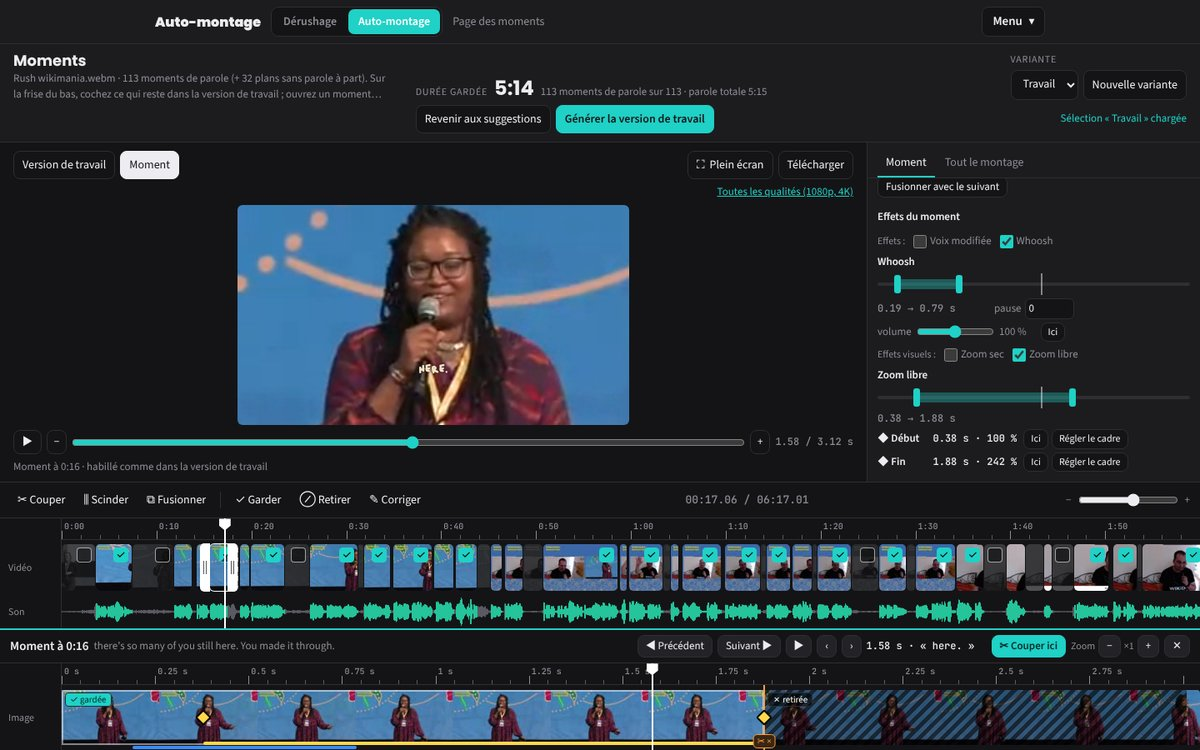
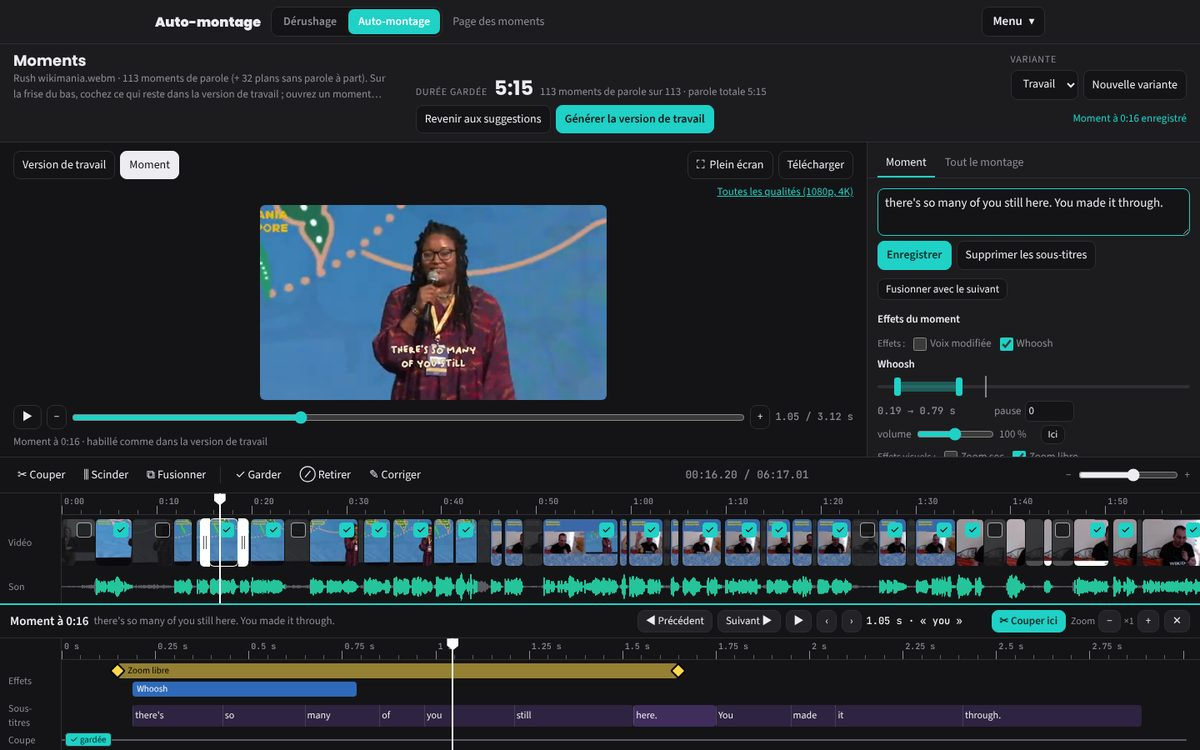
Version 0.66 : frise du moment avec ses effets, ses sous-titres et une ligne de coupe
Claude-Session: https://claude.ai/code/session_0169CDjeMXABF3BxtAnJYUo9

Changed region(s): [[0.0, 0.2453, 1.0, 1.0], [0.8942, 0.1533, 0.9867, 0.184], [0.4317, 0.092, 0.4625, 0.1227]]

diff --git a/montage/selection/page.html b/montage/selection/page.html
@@ -325,23 +325,27 @@
   .tlk-head .primary, .primary { background: var(--accent) !important; color: #002b28 !important; border-color: var(--accent) !important; font-weight: 600; }
   .tlk-head .at-info { font-family: var(--mono); font-size: 12px; color: var(--fg); font-variant-numeric: tabular-nums; min-width: 12em; }
   .tlk-head .zoom { display: inline-flex; align-items: center; gap: 4px; font-size: 12px; color: var(--muted); }
-  .tlk-labels .i { height: 78px; }
-  .itrack { position: relative; height: 78px; }
-  .itrack .film { position: absolute; top: 6px; bottom: 6px; left: 0; right: 0; display: flex; overflow: hidden; border-radius: 4px; }
-  .itrack .film span { flex: none; height: 100%; background-repeat: no-repeat; }
-  .itrack .part { position: absolute; top: 6px; bottom: 6px; border: 0; border-radius: 0; padding: 0; background: none; cursor: pointer; }
-  .itrack .part.off { background: repeating-linear-gradient(135deg, rgb(0 0 0 / 0.7) 0 5px, rgb(0 0 0 / 0.35) 5px 10px); }
-  .itrack .part .pl { position: absolute; left: 4px; top: 3px; font-size: 11px; line-height: 1; padding: 2px 5px; border-radius: 4px; background: rgb(0 0 0 / 0.6); color: #fff; white-space: nowrap; }
-  .itrack .part.on .pl { background: var(--accent); color: #002b28; }
-  .itrack .part:hover { box-shadow: inset 0 0 0 2px rgb(255 255 255 / 0.5); }
-  .itrack .cut { position: absolute; top: 0; bottom: 0; width: 2px; margin-left: -1px; background: var(--warn); z-index: 3; }
-  .itrack .cut button { position: absolute; bottom: 2px; left: 50%; transform: translateX(-50%); font-size: 11px; line-height: 1; padding: 2px 4px; border-radius: 5px; background: var(--warn-soft); color: var(--warn); border-color: var(--warn); white-space: nowrap; }
-  .itrack .trim { position: absolute; top: 6px; bottom: 6px; background: rgb(0 0 0 / 0.65); pointer-events: none; }
-  /* Effets du moment : fins repères colorés sous les images (clic : leurs réglages). */
-  .itrack .fxm { position: absolute; height: 4px; bottom: 1px; border-radius: 2px; border: 0; padding: 0; cursor: pointer; z-index: 2; min-width: 4px; }
-  .itrack .fxm.s { background: var(--sfx); } .itrack .fxm.v { background: var(--vfx); } .itrack .fxm.k { background: var(--key); }
-  .itrack .kf { position: absolute; top: 50%; width: 14px; height: 14px; margin: -7px 0 0 -7px; transform: rotate(45deg); background: var(--key); border: 2px solid #000; border-radius: 2px; padding: 0; z-index: 4; cursor: pointer; }
-  .itrack .kf:hover, .itrack .kf:focus-visible { outline: 2px solid #fff; }
+  /* Frise du moment : effets, sous-titres, ligne de coupe ; parties retirées hachurées sur toute la hauteur. */
+  .ktrack { position: relative; }
+  .ktrack .cutline { position: absolute; left: 0; height: 24px; pointer-events: none; }
+  .ktrack .cutline::before { content: ""; position: absolute; left: 0; right: 0; top: 11px; height: 2px; border-radius: 1px; background: var(--off); }
+  .ktrack .part { position: absolute; top: 0; bottom: 0; border: 0; border-radius: 0; padding: 0; background: none; cursor: pointer; z-index: 3; pointer-events: none; }
+  .ktrack .part.off { background: repeating-linear-gradient(135deg, rgb(0 0 0 / 0.6) 0 5px, rgb(0 0 0 / 0.3) 5px 10px); }
+  .ktrack .part .pl { pointer-events: auto; position: absolute; left: 4px; bottom: 4px; font-size: 11px; line-height: 1; padding: 2px 5px; border-radius: 4px; background: var(--panel2); color: var(--fg); white-space: nowrap; }
+  .ktrack .part.on .pl { background: var(--accent); color: #002b28; }
+  .ktrack .cut { position: absolute; top: 0; bottom: 0; width: 2px; margin-left: -1px; background: var(--warn); z-index: 5; }
+  .ktrack .cut button { position: absolute; bottom: 3px; left: 50%; transform: translateX(-50%); font-size: 11px; line-height: 1; padding: 2px 4px; border-radius: 5px; background: var(--warn-soft); color: var(--warn); border-color: var(--warn); white-space: nowrap; }
+  .ktrack .trim { position: absolute; top: 0; bottom: 0; background: rgb(0 0 0 / 0.6); pointer-events: none; z-index: 3; }
+  .ktrack .fxm { position: absolute; height: 18px; border-radius: 4px; border: 0; padding: 0 5px; cursor: pointer; z-index: 2; min-width: 6px; font-size: 11px; line-height: 18px; color: #fff; text-align: left; white-space: nowrap; overflow: visible; }
+  .ktrack .fxm.s { background: color-mix(in srgb, var(--sfx) 70%, transparent); } .ktrack .fxm.v { background: color-mix(in srgb, var(--vfx) 70%, transparent); }
+  .ktrack .fxm.k { background: color-mix(in srgb, var(--key) 55%, transparent); color: #000; padding-left: 12px; }
+  .ktrack .fxm:hover, .ktrack .fxm:focus-visible { outline: 2px solid #fff; }
+  .ktrack .cap { position: absolute; height: 26px; border-radius: 4px; background: rgb(164 107 255 / 0.18); pointer-events: none; }
+  .ktrack .cap.alt { background: rgb(164 107 255 / 0.3); }
+  .ktrack .wd { position: absolute; height: 26px; line-height: 26px; padding: 0 2px; font-size: 12px; color: var(--fg); overflow: hidden; white-space: nowrap; text-overflow: clip; cursor: pointer; z-index: 1; box-sizing: border-box; border-left: 1px solid rgb(255 255 255 / 0.12); }
+  .ktrack .wd:hover { background: rgb(255 255 255 / 0.12); }
+  .ktrack .kf { position: absolute; width: 14px; height: 14px; margin: -7px 0 0 -7px; transform: rotate(45deg); background: var(--key); border: 2px solid #000; border-radius: 2px; padding: 0; z-index: 4; cursor: pointer; }
+  .ktrack .kf:hover, .ktrack .kf:focus-visible { outline: 2px solid #fff; }
   .fxset.focus { outline: 1px solid var(--accent); border-radius: 6px; outline-offset: 3px; }
   /* Réglage d'un cadre du zoom libre, sur l'image du lecteur. */
   .framer { position: absolute; inset: 0; z-index: 4; cursor: grab; touch-action: none; outline: 2px dashed var(--key); outline-offset: -2px; }
@@ -2017,7 +2021,7 @@ ${HFAudio.voiceElements(spec)}
     drawPlayheads();
   }
 
-  // Frise du moment ouvert : règle et images ; parties gardées ou retirées (clic sur leur étiquette),
+  // Frise du moment ouvert : règle, effets, sous-titres, ligne de coupe ; parties gardées ou retirées (clic sur leur étiquette),
   // coupes « ✂ × », repères des effets, losanges du zoom libre (clic : régler ce cadre).
   function renderMomentTl() {
     const box = $("tlk"), om = openMoment();
@@ -2053,15 +2057,83 @@ ${HFAudio.voiceElements(spec)}
     zo.disabled = frise.zoom === ZOOMS[0]; zi.disabled = frise.zoom === ZOOMS[ZOOMS.length - 1];
     zoom.append(document.createTextNode("Zoom"), zo, el("span", "", `×${frise.zoom}`), zi);
     head.append(zoom, btn("✕", "Fermer le moment (Échap)", () => { frise.open = null; frise.sel.clear(); editing = null; renderOpen(); }));
-    // Piste d'images.
-    const labels = el("div", "tlk-labels");
-    labels.append(el("span", "r"), el("span", "i", "Image"));
-    const sc = el("div", "tlk-scroll"), inner = el("div", "tlk-in");
-    inner.style.width = `${len * kpps + 16}px`;
-    const track = el("div", "itrack");
-    track.append(filmstrip(s0, s0 + len, len * kpps, 66, m.thumb));
+    // Pistes : effets (s'il y en a), sous-titres (s'il y en a), et la ligne de coupe en bas,
+    // seule quand le moment n'a ni effet ni sous-titre ; parties gardées / retirées sur toute la hauteur.
     const px = (t) => `${Math.max(0, Math.min(len, t)) * kpps}px`;
     const span = (node, a, b) => { node.style.left = px(a); node.style.width = `${(Math.min(len, b) - Math.max(0, a)) * kpps}px`; return node; };
+    const fxs = [];
+    if (!DERUSH) {
+      sfxOf(m).forEach((f, idx) => {
+        const name = (catalog.find((c) => c.id === f.kind) || { label: f.kind }).label;
+        const a = Number(f.at) || 0;
+        const b = f.kind === "voix" ? a + (Number(f.dur) || 1) : a + Math.max(1, f.repeat || 1) * soundLen(f) + (Math.max(1, f.repeat || 1) - 1) * Math.max(0, (Number(f.gap) || 0) - soundLen(f));
+        fxs.push({ cls: "s", a, b: Math.max(b, a + 0.05), name, focus: `s${idx}` });
+      });
+      vfxOf(m).forEach((f, idx) => {
+        if (f.kind === "highlight") return;
+        const name = (VFX_CATALOG.find((c) => c.id === f.kind) || { label: f.kind }).label;
+        const a = Number(f.at) || 0, b = a + (Number(f.dur) || 0.5);
+        fxs.push({ cls: f.kind === "zoomlibre" ? "k" : "v", a, b: Math.max(b, a + 0.05), name, focus: `v${idx}`, key: f.kind === "zoomlibre" ? { f, idx } : null });
+      });
+    }
+    // Lignes des effets : un effet va sur la première ligne où il ne chevauche rien (étiquette comprise).
+    const lanes = [];
+    fxs.sort((x, y) => x.a - y.a).forEach((x) => {
+      const end = Math.max(x.b, x.a + (x.name.length * 6.5 + 14) / kpps);
+      let k = lanes.findIndex((e) => e <= x.a);
+      if (k < 0) { k = lanes.length; lanes.push(0); }
+      lanes[k] = end; x.lane = k;
+    });
+    const words = m.gap || (DERUSH && !derushSubs()) ? [] : wordsOf(m).filter((w) => w.text);
+    const LANE = 22, FXH = lanes.length ? lanes.length * LANE + 6 : 0, SUBH = words.length ? 34 : 0, CUTH = 24;
+    const labels = el("div", "tlk-labels");
+    labels.append(el("span", "r"));
+    if (FXH) labels.append(Object.assign(el("span", "", "Effets"), { style: `height:${FXH}px` }));
+    if (SUBH) labels.append(Object.assign(el("span", "", "Sous-titres"), { style: `height:${SUBH}px` }));
+    labels.append(Object.assign(el("span", "", "Coupe"), { style: `height:${CUTH}px` }));
+    const sc = el("div", "tlk-scroll"), inner = el("div", "tlk-in");
+    inner.style.width = `${len * kpps + 16}px`;
+    const track = el("div", "ktrack");
+    track.style.height = `${FXH + SUBH + CUTH}px`;
+    const cutline = el("span", "cutline");
+    cutline.style.top = `${FXH + SUBH}px`;
+    cutline.style.width = `${len * kpps}px`;
+    track.append(cutline);
+    if (FXH) {
+      for (const x of fxs) {
+        const title = `${x.name} · ${x.a.toFixed(2)} s`;
+        const mk = btn(x.name, title, (e) => { e.stopPropagation(); frise.focus = x.focus; frise.tab = "moment"; seekMoment(m, x.a); renderInspector(); }, `fxm ${x.cls}`);
+        span(mk, x.a, x.b);
+        mk.style.top = `${4 + x.lane * LANE}px`;
+        mk.setAttribute("aria-label", title);
+        mk.addEventListener("pointerdown", (e) => e.stopPropagation());
+        track.append(mk);
+        if (x.key) for (const [which, t] of [["from", x.a], ["to", x.b]]) {
+          const f = x.key.f;
+          const kf = btn("", `${which === "from" ? "Cadre de début" : "Cadre de fin"} du zoom libre (${Math.round(keyFrame(f[which]).s * 100)} %) : clic pour le régler`,
+            (e) => { e.stopPropagation(); openFramer(m, x.key.idx, which); }, "kf");
+          kf.style.left = px(t);
+          kf.style.top = `${4 + x.lane * LANE + 9}px`;
+          kf.addEventListener("pointerdown", (e) => e.stopPropagation());
+          track.append(kf);
+        }
+      }
+    }
+    if (SUBH) {
+      // Sous-titres tels qu'ils s'afficheront (groupes de mots), chaque mot à sa place : un clic y met la tête de lecture.
+      captionGroups(wordsOf(m)).forEach((g, gi) => {
+        const cap = span(el("span", `cap${gi % 2 ? " alt" : ""}`), g.a, g.b);
+        cap.style.top = `${FXH + 4}px`;
+        track.append(cap);
+      });
+      for (const w of words) {
+        const wd = span(el("span", "wd", w.text), w.a, Math.max(w.b, w.a + 0.05));
+        wd.style.top = `${FXH + 4}px`;
+        wd.dataset.a = String(w.a);
+        wd.title = `« ${w.text} » · ${w.a.toFixed(2)} s`;
+        track.append(wd);
+      }
+    }
     if (m.gap) {
       const tr = trimOf(m);
       if (tr.in > 0.01) track.append(span(el("span", "trim"), 0, tr.in));
@@ -2097,44 +2169,14 @@ ${HFAudio.voiceElements(spec)}
         track.append(mark);
       });
     }
-    // Repères des effets (clic : leurs réglages dans l'inspecteur) et cadres du zoom libre.
-    if (!DERUSH) {
-      let row = 0;
-      const marker = (cls, a, b, title, focus) => {
-        const mk = btn("", title, (e) => { e.stopPropagation(); frise.focus = focus; frise.tab = "moment"; seekMoment(m, a); renderInspector(); }, `fxm ${cls}`);
-        span(mk, a, Math.max(b, a + 0.05));
-        mk.style.bottom = `${1 + 5 * row++}px`;
-        mk.setAttribute("aria-label", title);
-        mk.addEventListener("pointerdown", (e) => e.stopPropagation());
-        track.append(mk);
-      };
-      sfxOf(m).forEach((f, idx) => {
-        const name = (catalog.find((c) => c.id === f.kind) || { label: f.kind }).label;
-        const a = Number(f.at) || 0;
-        const b = f.kind === "voix" ? a + (Number(f.dur) || 1) : a + Math.max(1, f.repeat || 1) * soundLen(f) + (Math.max(1, f.repeat || 1) - 1) * Math.max(0, (Number(f.gap) || 0) - soundLen(f));
-        marker("s", a, b, `${name} · ${a.toFixed(2)} s`, `s${idx}`);
-      });
-      vfxOf(m).forEach((f, idx) => {
-        if (f.kind === "highlight") return;
-        const name = (VFX_CATALOG.find((c) => c.id === f.kind) || { label: f.kind }).label;
-        const a = Number(f.at) || 0, b = a + (Number(f.dur) || 0.5);
-        marker(f.kind === "zoomlibre" ? "k" : "v", a, b, `${name} · ${a.toFixed(2)} s`, `v${idx}`);
-        if (f.kind === "zoomlibre") for (const [which, t] of [["from", a], ["to", b]]) {
-          const kf = btn("", `${which === "from" ? "Cadre de début" : "Cadre de fin"} du zoom libre (${Math.round(keyFrame(f[which]).s * 100)} %) : clic pour le régler`,
-            (e) => { e.stopPropagation(); openFramer(m, idx, which); }, "kf");
-          kf.style.left = px(t);
-          kf.addEventListener("pointerdown", (e) => e.stopPropagation());
-          track.append(kf);
-        }
-      });
-    }
-    // Clic ou glisser sur les images : la tête de lecture suit.
+    // Clic ou glisser sur les pistes : la tête de lecture suit (clic sur un mot : son début).
     track.addEventListener("pointerdown", (ev) => {
       if (ev.button) return;
       ev.preventDefault();
       track.setPointerCapture(ev.pointerId);
       const at = (e) => { const r = inner.getBoundingClientRect(); seekMoment(m, (e.clientX - r.left) / kpps); };
-      at(ev);
+      const wd = ev.target.closest && ev.target.closest(".wd");
+      if (wd) seekMoment(m, Number(wd.dataset.a)); else at(ev);
       const up = () => { track.removeEventListener("pointermove", at); track.removeEventListener("pointerup", up); };
       track.addEventListener("pointermove", at);
       track.addEventListener("pointerup", up);

diff --git a/montage/local/tutorial.html b/montage/local/tutorial.html
@@ -116,7 +116,7 @@
         <li>Les plans <b>sans parole</b> (hachurés) peuvent être ajoutés, avec leur début et leur fin.</li></ul>`,
       media: [{ img: "moments.jpg", caption: "La page des moments : lecteur, inspecteur, et les frises en bas" }] },
     { title: "Ajouter des effets", where: "Page des moments, sur chaque moment",
-      html: `<p>Cochez des <b>sons</b> (caisse, pop, whoosh, ding, boum…) et des <b>effets visuels</b> (zoom avant, zoom sec, dézoom, <b>zoom libre</b>, secousse, flash, mot mis en valeur, texte tapé, pastille) dans l'inspecteur ; calez-les sur leur bande (ou bouton « Ici » à la tête de lecture), réglez leur durée, leur force et leur volume. Ils apparaissent en fins repères de couleur sous les images de la frise du moment.</p>
+      html: `<p>Cochez des <b>sons</b> (caisse, pop, whoosh, ding, boum…) et des <b>effets visuels</b> (zoom avant, zoom sec, dézoom, <b>zoom libre</b>, secousse, flash, mot mis en valeur, texte tapé, pastille) dans l'inspecteur ; calez-les sur leur bande (ou bouton « Ici » à la tête de lecture), réglez leur durée, leur force et leur volume. Ils apparaissent en bandes de couleur nommées sur la frise du moment (piste « Effets »).</p>
         <p>« Effets proposés sur les moments » (onglet « Tout le montage » de l'inspecteur) choisit ceux qui apparaissent sur chaque moment ; « Ajouter des sons… » y ajoute les vôtres. Sur « Rushes et montages », le bouton ▶ fait écouter ou voir chaque effet.</p>`,
       media: [{ video: "demo-effets.mp4", caption: "Zoom sec sur « gratuitement », puis « makrout » mis en valeur" }, { img: "effets.jpg", caption: "Un son et le zoom libre d'un moment, avec leur calage" }] },
     { title: "Régler les sous-titres et l'habillage", where: "Page des moments > Style des sous-titres, Zooms et animations",
@@ -210,7 +210,7 @@
         <li>Pendant la lecture de la version de travail, le moment en cours est encadré de jaune sur la frise, avec la tête de lecture ; « Dans la version de travail » marque, dans l'inspecteur, les moments présents dans la dernière vidéo générée.</li>
         <li><b>Variante</b> : <b>Nouvelle variante</b> garde une autre sélection du même rush (une courte, une longue…). On passe de l'une à l'autre par la liste, et « Générer » monte celle qui est affichée.</li></ul>` },
     { id: "decoupe", title: "Couper à l'image près", where: "Page des moments, frise du moment",
-      html: `<p>La frise du moment, sous celle du rush, montre ses images. Glissez sur la règle ou sur les images pour placer la tête de lecture : l'image s'affiche dans le lecteur et le mot prononcé est écrit en haut (« après “courses” », « avant la parole »). ‹ et › (ou <kbd>←</kbd> <kbd>→</kbd>) avancent ou reculent d'une image (1/30 s) ; <b>Zoom +</b> agrandit la frise jusqu'à ×16 pour placer chaque image à la souris.</p>
+      html: `<p>La frise du moment, sous celle du rush, montre ses effets et ses sous-titres mot à mot (s'il en a) au-dessus d'une ligne de coupe. Glissez sur la règle ou sur la frise pour placer la tête de lecture (un clic sur un mot la met à son début) : l'image s'affiche dans le lecteur et le mot prononcé est écrit en haut (« après “courses” », « avant la parole »). ‹ et › (ou <kbd>←</kbd> <kbd>→</kbd>) avancent ou reculent d'une image (1/30 s) ; <b>Zoom +</b> agrandit la frise jusqu'à ×16 pour placer chaque image à la souris.</p>
         <ul><li><b>Couper ici</b> pose une coupe à la tête de lecture : le moment est partagé en parties. L'étiquette de chaque partie (« ✓ gardée », « ✗ retirée ») la retire ou la remet d'un clic (une hésitation, un mot de trop) ; une partie retirée est hachurée. Survolez une partie pour voir ses mots.</li>
         <li><b>✂ ×</b> sur une coupe la retire.</li>
         <li>Sur la frise du rush, les <b>poignées blanches</b> du moment choisi raccourcissent son début ou sa fin (une coupe et la partie retirée, posées pour vous).</li>
@@ -225,7 +225,7 @@
         <li><b>Texte d'origine</b> revient à la transcription.</li>
         <li>Les sous-titres affichent jusqu'à 6 mots, sur deux lignes de même largeur (3 mots sur une ligne, 9 sur trois : réglage « Lignes au plus » du style des sous-titres).</li></ul>` },
     { id: "calage", title: "Placer et régler un effet", where: "Page des moments, inspecteur du moment",
-      html: `<p>Chaque effet coché a sa ligne dans l'inspecteur, avec une <b>bande de calage</b> sur la durée du moment, et un fin repère de couleur sous les images de la frise du moment (clic : ses réglages) :</p>
+      html: `<p>Chaque effet coché a sa ligne dans l'inspecteur, avec une <b>bande de calage</b> sur la durée du moment, et une bande de couleur à son nom sur la frise du moment (clic : ses réglages) :</p>
         <ul><li>faites glisser la bande pour la déplacer, et ses poignées pour régler le début et la fin ; la vidéo montre l'instant visé pendant le geste ;</li>
         <li>au clavier, sur une poignée : <kbd>←</kbd> <kbd>→</kbd> d'une image, avec <kbd>Maj</kbd> de 10 images ;</li>
         <li><b>Ici</b> place le départ à l'instant de lecture (le moment doit être ouvert dans le lecteur).</li></ul>

diff --git a/CLAUDE.md b/CLAUDE.md
@@ -166,8 +166,10 @@ interne : les changements attendent la prochaine version.
   panneaux globaux), barre d'outils (`renderToolbar`), frise du rush sur une ligne (`renderMain` :
   `clipBlock` avec les images du rush de `filmstrip`, poignées `addHandles` → `trimEdge`, forme
   d'onde `drawWave`, zoom `frise.pps` gardé dans localStorage, `scrubRush`) et frise du moment
-  ouvert (`renderMomentTl` : règle et images seulement, parties, coupes, repères des effets,
-  zoom `frise.zoom`). Images : planches `work/moments/frames/sNNN.jpg` (une image toutes les
+  ouvert (`renderMomentTl` : règle, puis piste « Effets » s'il y en a (bandes nommées, rangées
+  sans chevauchement), « Sous-titres » s'il y en a (groupes de `captionGroups`, chaque mot à sa
+  place, clic : son début), et toujours la ligne « Coupe » en bas, seule sans effet ni sous-titre ;
+  parties retirées hachurées sur toute la hauteur, coupes, zoom `frise.zoom`). Images : planches `work/moments/frames/sNNN.jpg` (une image toutes les
   0,5 s, `moments_lib.timeline_strip`, DATA `strip`) ; forme d'onde : `timeline_wave` (DATA
   `wave`, 20 crêtes par seconde). Sélection Maj / Ctrl + clic (`pickMoment`, fusion
   `/api/moments/merge` avec `count`) ; clavier : Espace, ← →, Maj + ← →, Échap. Effets réglés dans

diff --git a/montage/README.md b/montage/README.md
@@ -64,10 +64,11 @@ npm i
    enregistrés avant cet effet (sans `fxv: 2`) gardent la voix proposée.
    La page ressemble à un logiciel de montage : frise du rush sur une ligne qui défile (images de
    chaque moment, forme d'onde de la voix, case garder / retirer, poignées pour raccourcir le
-   début ou la fin du moment choisi), et frise du moment choisi dessous (règle : image et mot à
+   début ou la fin du moment choisi), et frise du moment choisi dessous (ses effets et ses sous-titres mot à mot
+   s'il en a, et une ligne de coupe ; règle : image et mot à
    l'instant choisi, « ‹ › » ou ← → une image, zoom jusqu'à ×16 pour placer chaque image à la
    souris) ; puis « Couper ici » découpe un moment en parties à garder ou retirer une à une
-   (étiquette de chaque partie sur ses images), par exemple pour retirer une
+   (étiquette de chaque partie sur la ligne de coupe), par exemple pour retirer une
    répétition que Whisper n'a pas transcrite. La coupe tombe sur l'image choisie (positions
    calées sur les images du rush, 30 i/s) ; dans la variante, la partie k du moment id s'écrit
    `"id/k"` et les instants de coupe sont dans le document du moment (`cuts`).

diff --git a/CHANGELOG.md b/CHANGELOG.md
@@ -4,6 +4,13 @@ Chaque version publiée reprend sa section dans ses notes (onglet Releases). Une
 section, le numéro dans `VERSION` et le tag `v<numéro>` poussé publient la version avec ses
 installateurs (voir `packaging/README.md`).
 
+## 0.66
+
+- **Frise du moment** : au lieu des images, elle montre les **effets** du moment (une bande de
+  couleur à leur nom, clic : leurs réglages) et ses **sous-titres** mot à mot (un clic sur un mot
+  y place la tête de lecture), quand il y en a ; en bas, une **ligne de coupe** où se coupent et
+  se gardent ou se retirent les parties. Sans effet ni sous-titre, il ne reste que cette ligne.
+
 ## 0.65
 
 - **Page des moments façon logiciel de montage** (CapCut), en sombre : la barre du haut garde
